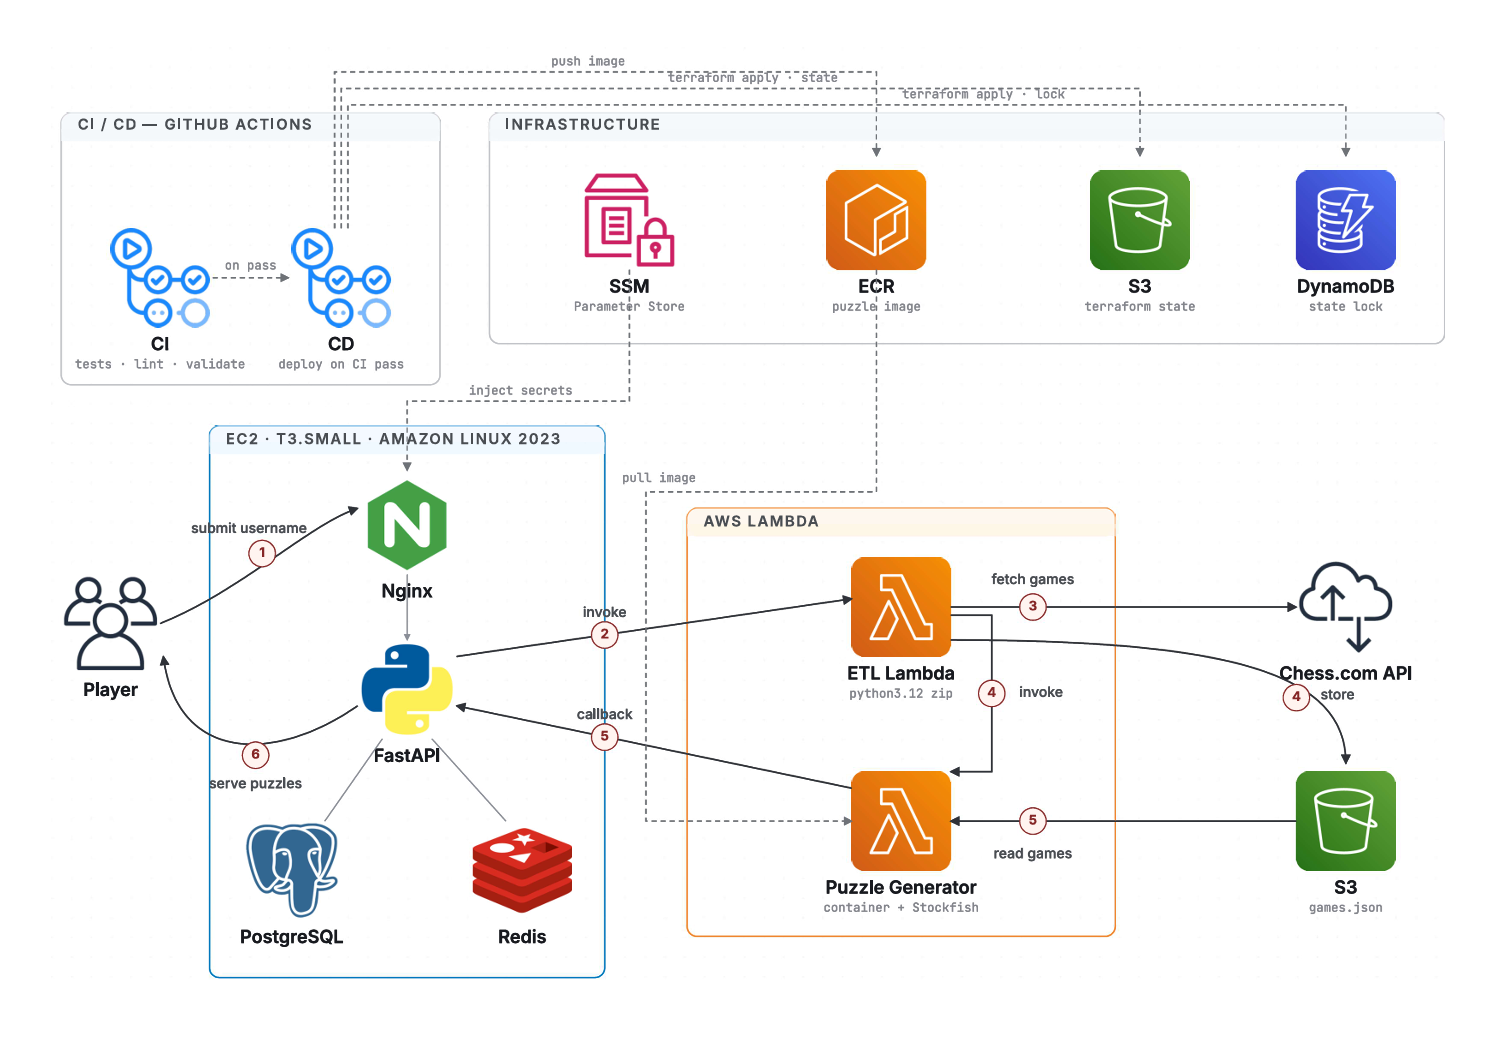
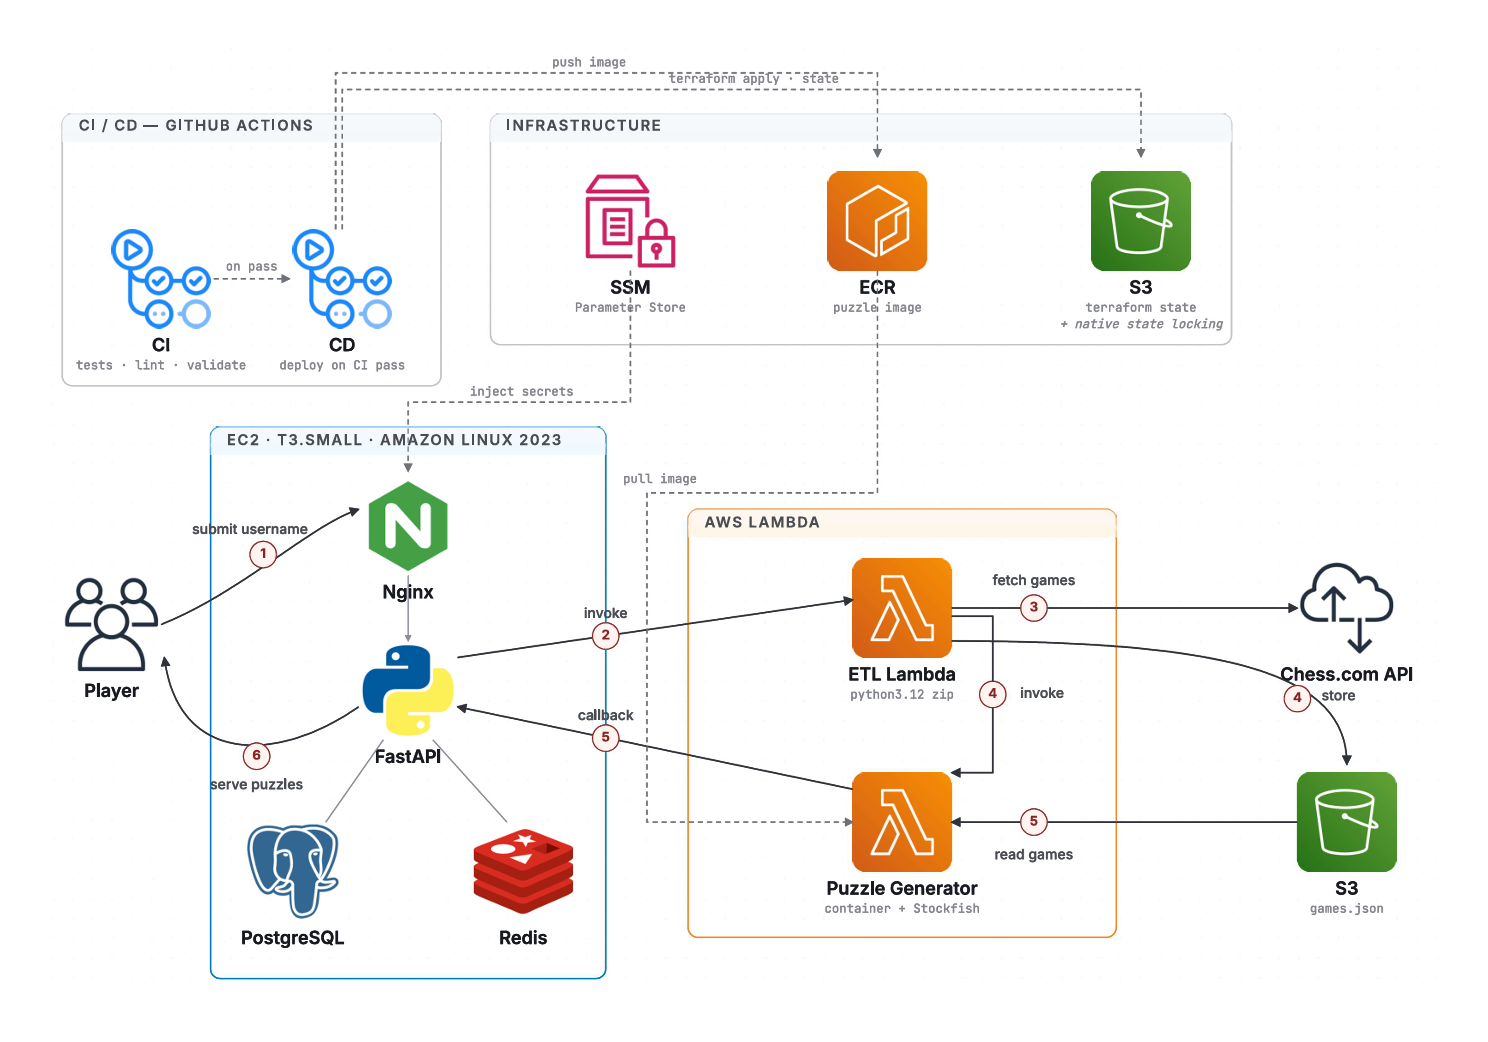
Update docs

diff --git a/docs/cloud-setup.md b/docs/cloud-setup.md
@@ -2,7 +2,7 @@
 
 > **End-to-End Platform Engineering of a Serverless ETL Pipeline for Chess Game Analysis and Puzzle Generation on AWS**
 
-This guide covers deploying the project to AWS. The cloud setup replaces the local Docker worker with two AWS Lambda functions — one for game extraction (ETL) and one for Stockfish puzzle generation — while the FastAPI backend and UI continue to run on an EC2 instance behind Nginx.
+This guide covers deploying the project to AWS. The cloud setup replaces the local Docker worker with two AWS Lambda functions - one for game extraction (ETL) and one for Stockfish puzzle generation - while the FastAPI backend and UI continue to run on an EC2 instance behind Nginx.
 
 ---
 
@@ -14,9 +14,9 @@ The deployment is fully automated. Once the one-time bootstrap is complete, ever
 Bootstrap (once)        CI / CD (every push to main)
 ─────────────────       ─────────────────────────────────────────────
 S3 state bucket    →    CI: tests · lint · terraform validate
-DynamoDB lock      →    CD: push image → ECR
-GitHub OIDC        →        terraform apply → all AWS resources
-Deploy IAM role    →        EC2 self-configures via SSM + user_data
+GitHub OIDC        →    CD: push image → ECR
+Deploy IAM role    →        terraform apply → all AWS resources
+                   →        EC2 self-configures via SSM + user_data
 ```
 
 ---
@@ -25,9 +25,9 @@ Deploy IAM role    →        EC2 self-configures via SSM + user_data
 
 | Requirement | Notes |
 |---|---|
-| AWS account | With permissions to create IAM roles, Lambda, EC2, S3, DynamoDB, SSM, ECR |
+| AWS account | With permissions to create IAM roles, Lambda, EC2, S3, SSM, ECR |
 | [AWS CLI v2](https://docs.aws.amazon.com/cli/latest/userguide/install-cliv2.html) | Configured with credentials (`aws configure`) |
-| [Terraform >= 1.5](https://developer.hashicorp.com/terraform/install) | Used for bootstrap and reviewed locally |
+| [Terraform >= 1.10](https://developer.hashicorp.com/terraform/install) | Used for bootstrap and reviewed locally |
 | [Git](https://git-scm.com/) | To push the trigger commit |
 | GitHub repository | Must be **public** or have GitHub Actions enabled |
 
@@ -38,8 +38,8 @@ Deploy IAM role    →        EC2 self-configures via SSM + user_data
 | Layer | Service | Role |
 |---|---|---|
 | Compute | EC2 t3.small (Amazon Linux 2023) | Runs Nginx, FastAPI, PostgreSQL, Redis via Docker Compose |
-| Serverless | AWS Lambda (python3.12 zip) | ETL — fetches games from Chess.com, stores to S3 |
-| Serverless | AWS Lambda (container + Stockfish) | Puzzle generation — reads S3, runs Stockfish, callbacks to EC2 |
+| Serverless | AWS Lambda (python3.12 zip) | ETL - fetches games from Chess.com, stores to S3 |
+| Serverless | AWS Lambda (container + Stockfish) | Puzzle generation - reads S3, runs Stockfish, callbacks to EC2 |
 | Storage | S3 | Temporary game data (1-day auto-expiry) |
 | Secrets | SSM Parameter Store | Injects secrets into EC2 at boot |
 | Registry | ECR | Stores the puzzle generator container image |
@@ -48,23 +48,23 @@ Deploy IAM role    →        EC2 self-configures via SSM + user_data
 
 ---
 
-## Step 1 — Bootstrap (One-Time)
+## Step 1 - Bootstrap (One-Time)
 
-The bootstrap creates the resources that Terraform itself needs to operate: a remote state bucket, a state lock table, and the IAM role that GitHub Actions will assume via OIDC. This step is run **once** from your local machine and never again.
+The bootstrap creates the resources that Terraform itself needs to operate: a remote state bucket and the IAM role that GitHub Actions will assume via OIDC. State locking uses S3 native conditional writes - no DynamoDB required. This step is run **once** from your local machine and never again.
 
-### 1.1 — Navigate to the bootstrap directory
+### 1.1 - Navigate to the bootstrap directory
 
 ```bash
 cd bootstrap
 ```
 
-### 1.2 — Initialise Terraform
+### 1.2 - Initialise Terraform
 
 ```bash
 terraform init
 ```
 
-### 1.3 — Review the plan
+### 1.3 - Review the plan
 
 ```bash
 terraform plan
@@ -74,54 +74,52 @@ Bootstrap creates the following resources:
 
 | Resource | Purpose |
 |---|---|
-| `aws_s3_bucket` | Stores Terraform state with versioning and AES-256 encryption |
-| `aws_dynamodb_table` | Prevents concurrent `terraform apply` runs (state locking) |
-| `aws_iam_openid_connect_provider` | Trusts GitHub Actions tokens — no static AWS keys needed |
+| `aws_s3_bucket` | Stores Terraform state with versioning and AES-256 encryption. Native S3 locking (`use_lockfile = true`) handles concurrency - no DynamoDB needed |
+| `aws_iam_openid_connect_provider` | Trusts GitHub Actions tokens - no static AWS keys needed |
 | `aws_iam_role` (github-deploy) | The role GitHub Actions assumes; scoped to project resources only |
 
-> **Note** — If your AWS account already has an OIDC provider for `token.actions.githubusercontent.com`, import it before applying to avoid a conflict:
+> **Note** - If your AWS account already has an OIDC provider for `token.actions.githubusercontent.com`, import it before applying to avoid a conflict:
 > ```bash
 > terraform import aws_iam_openid_connect_provider.github <existing-provider-arn>
 > ```
 
-### 1.4 — Apply
+### 1.4 - Apply
 
 ```bash
 terraform apply
 ```
 
-When it completes, note the outputs — you will need them in the next step.
+When it completes, note the outputs - you will need them in the next step.
 
 ```
 state_bucket_name = "chess-puzzle-generator-tfstate-<account-id>"
-lock_table_name   = "chess-puzzle-generator-terraform-locks"
 deploy_role_arn   = "arn:aws:iam::<account-id>:role/chess-puzzle-generator-github-deploy"
 
 backend_hcl = <<EOT
-  bucket         = "chess-puzzle-generator-tfstate-<account-id>"
-  key            = "chess-puzzle-generator/terraform.tfstate"
-  region         = "eu-north-1"
-  dynamodb_table = "chess-puzzle-generator-terraform-locks"
-  encrypt        = true
+  bucket       = "chess-puzzle-generator-tfstate-<account-id>"
+  key          = "chess-puzzle-generator/terraform.tfstate"
+  region       = "eu-north-1"
+  encrypt      = true
+  use_lockfile = true
 EOT
 ```
 
-### 1.5 — Create `terraform/backend.hcl`
+### 1.5 - Create `terraform/backend.hcl`
 
 Copy the `backend_hcl` output into a new file at `terraform/backend.hcl`. This file is gitignored and only used when running Terraform locally.
 
 ```bash
 # terraform/backend.hcl
-bucket         = "chess-puzzle-generator-tfstate-<account-id>"
-key            = "chess-puzzle-generator/terraform.tfstate"
-region         = "eu-north-1"
-dynamodb_table = "chess-puzzle-generator-terraform-locks"
-encrypt        = true
+bucket       = "chess-puzzle-generator-tfstate-<account-id>"
+key          = "chess-puzzle-generator/terraform.tfstate"
+region       = "eu-north-1"
+encrypt      = true
+use_lockfile = true
 ```
 
 ---
 
-## Step 2 — Configure GitHub Secrets and Variables
+## Step 2 - Configure GitHub Secrets and Variables
 
 The CD workflow reads secrets and variables from a GitHub Actions **`production` environment**. Go to your repository on GitHub:
 
@@ -137,7 +135,6 @@ Then add the following.
 |---|---|---|
 | `AWS_DEPLOY_ROLE_ARN` | From bootstrap output `deploy_role_arn` | IAM role GitHub Actions assumes via OIDC |
 | `TF_STATE_BUCKET` | From bootstrap output `state_bucket_name` | S3 bucket for Terraform state |
-| `TF_LOCK_TABLE` | From bootstrap output `lock_table_name` | DynamoDB table for state locking |
 | `S3_BUCKET_NAME` | Choose a globally unique name e.g. `chess-puzzle-generator-games-<account-id>` | Temporary game storage bucket |
 | `LAMBDA_SECRET` | `python3 -c "import secrets; print(secrets.token_hex(32))"` | Shared secret for Lambda → EC2 callbacks |
 | `DB_PASSWORD` | Any strong password | PostgreSQL password injected via SSM |
@@ -155,7 +152,7 @@ Then add the following.
 
 ---
 
-## Step 3 — Trigger the First Deployment
+## Step 3 - Trigger the First Deployment
 
 With bootstrap complete and GitHub configured, push any change to `main` to trigger the pipeline.
 
@@ -191,14 +188,14 @@ Triggered automatically when CI passes on `main`. Runs in the `production` envir
 ① Checkout code at the exact SHA that passed CI
 ② Configure AWS credentials via OIDC (no static keys)
 ③ Terraform init with S3 backend
-④ Targeted apply — create ECR repository if it doesn't exist yet
+④ Targeted apply - create ECR repository if it doesn't exist yet
 ⑤ Log in to ECR
 ⑥ Build and push puzzle generator Docker image (linux/amd64)
 ⑦ Build ETL Lambda zip (pip install + handler.py)
-⑧ Full terraform apply — provision / update all AWS resources
+⑧ Full terraform apply - provision / update all AWS resources
 ```
 
-> **OIDC authentication** — GitHub Actions assumes the deploy IAM role using a short-lived token. No AWS access keys are stored anywhere.
+> **OIDC authentication** - GitHub Actions assumes the deploy IAM role using a short-lived token. No AWS access keys are stored anywhere.
 
 ---
 
@@ -241,7 +238,7 @@ Triggered automatically when CI passes on `main`. Runs in the `production` envir
 
 ## EC2 Self-Configuration
 
-The EC2 instance configures itself completely on first boot via `user_data.sh` — no manual SSH or SSM commands required. The script:
+The EC2 instance configures itself completely on first boot via `user_data.sh` - no manual SSH or SSM commands required. The script:
 
 1. Installs Docker, Docker Compose, and Docker Buildx
 2. Clones the application repository
@@ -282,7 +279,7 @@ Or open `http://<ec2-public-ip>` in your browser to access the puzzle UI.
 # Connect via SSM (no SSH key needed)
 aws ssm start-session --target <instance-id> --region eu-north-1
 
-# Inside the session — check cloud-init log
+# Inside the session - check cloud-init log
 sudo cat /var/log/cloud-init-output.log | tail -50
 
 # Verify all containers are running
@@ -334,11 +331,11 @@ cd terraform
 terraform destroy
 ```
 
-To also remove the bootstrap resources (state bucket, lock table, OIDC provider, deploy role):
+To also remove the bootstrap resources (state bucket, OIDC provider, deploy role):
 
 ```bash
 cd bootstrap
 terraform destroy
 ```
 
-> **Warning** — Destroying the bootstrap S3 bucket will delete all Terraform state. Do this only when you are fully decommissioning the project.
+> **Warning** - Destroying the bootstrap S3 bucket will delete all Terraform state. Do this only when you are fully decommissioning the project.

diff --git a/README.md b/README.md
@@ -34,7 +34,7 @@ A cloud-native platform that ingests Chess.com game archives, runs batch Stockfi
 | Discipline | What was built |
 |---|---|
 | **Serverless ETL** | Two-stage AWS Lambda pipeline: game extraction (Python 3.12 zip) → Stockfish analysis (container image) |
-| **Infrastructure as Code** | Full Terraform configuration - EC2, Lambda, S3, ECR, SSM, IAM, DynamoDB, Elastic IP |
+| **Infrastructure as Code** | Full Terraform configuration - EC2, Lambda, S3, ECR, SSM, IAM, Elastic IP |
 | **CI/CD** | GitHub Actions - tests on every push, automated deploy on CI pass via OIDC (no static keys) |
 | **Containerisation** | Docker Compose stack (Nginx, FastAPI, PostgreSQL, Redis, Worker) for local parity with production |
 | **Secrets management** | SSM Parameter Store injects secrets into EC2 at boot - zero manual configuration post-deploy |
@@ -64,7 +64,7 @@ A cloud-native platform that ingests Chess.com game archives, runs batch Stockfi
 
 **Cloud & Infrastructure**
 
-![AWS](https://img.shields.io/badge/AWS-Lambda%20·%20EC2%20·%20S3%20·%20ECR%20·%20SSM%20·%20DynamoDB-FF9900?logo=amazonaws&logoColor=white)
+![AWS](https://img.shields.io/badge/AWS-Lambda%20·%20EC2%20·%20S3%20·%20ECR%20·%20SSM-FF9900?logo=amazonaws&logoColor=white)
 ![Terraform](https://img.shields.io/badge/Terraform-IaC-7B42BC?logo=terraform&logoColor=white)
 ![GitHub Actions](https://img.shields.io/badge/GitHub_Actions-CI%2FCD-2088FF?logo=githubactions&logoColor=white)
 ![Docker](https://img.shields.io/badge/Docker-Compose-2496ED?logo=docker&logoColor=white)
@@ -175,8 +175,7 @@ Running the full cloud stack in `eu-north-1` at moderate usage (~100 puzzle gene
 | ECR | ~1.5 GB image storage × $0.10/GB | ~$0.15 |
 | S3 (games bucket) | Ephemeral objects, 1-day TTL | ~$0.01 |
 | SSM Parameter Store | 3 standard parameters | $0.00 |
-| DynamoDB (state lock) | On-demand, near-zero traffic | ~$0.01 |
-| **Total** | | **~$15.94/month** |
+| **Total** | | **~$15.93/month** |
 
 > ¹ Combined Lambda usage (~150,000 GB-seconds/month) stays well within the AWS free tier (400,000 GB-seconds + 1M requests/month free, permanently). Lambda costs only begin if usage exceeds ~267 jobs/month for the Puzzle Generator at 3 GB × 8 min per job.
 
